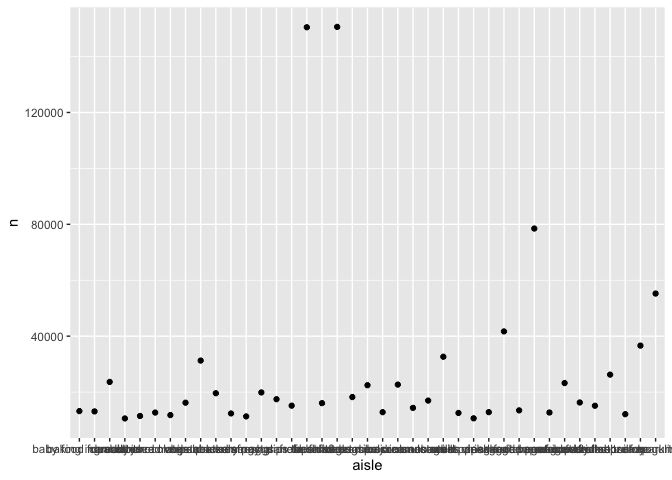
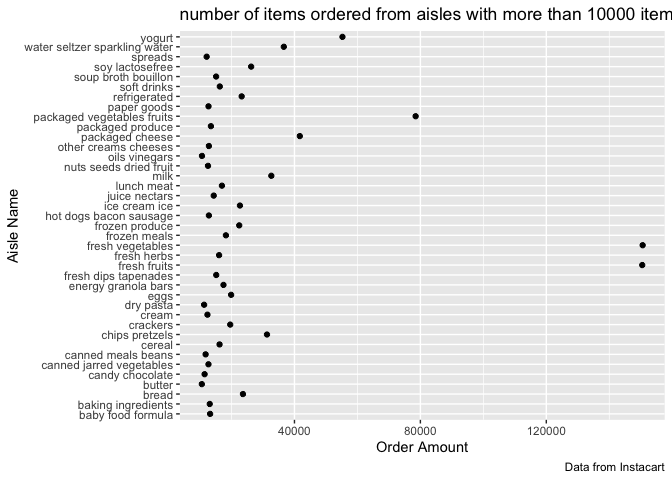
Commit by 10/14, last question left

diff --git a/p8105_hw3_as5685.md b/p8105_hw3_as5685.md
@@ -39,12 +39,12 @@ instacart %>%
   summarize(
     aisle_number = n()
   ) %>% 
-  filter(min_rank(desc(aisle_number)) < 2) %>% 
-  knitr::kable()
+  arrange(desc(aisle_number))
 ```
 
-The number of aisles are . Fresh vegatables is the aisle that most item
-ordered from.
+The number of aisles is 134.
+
+Fresh vegatables is the aisle that most item ordered from.
 
 ## Plot for number of items ordered
 
@@ -64,8 +64,10 @@ popularitem_plot =
         x = "Order Amount",
         caption = "Data from Instacart"
       )
+popularitem_plot
 ```
 
+![](p8105_hw3_as5685_files/figure-gfm/unnamed-chunk-3-1.png)<!-- -->
 Among the aisles with more than 10000 orders, fresh vegatables and fresh
 fruits are the most popular aisles.
 
@@ -84,21 +86,25 @@ popularitem_data =
   filter(min_rank(desc(product_order_amount)) < 4) %>% 
   arrange(desc(product_order_amount)) %>% 
   knitr::kable()
+
 popularitem_data 
 ```
 
-| aisle                        | product\_name                                     |                                                                                           product\_order\_amount |
-| :--------------------------- | :------------------------------------------------ | ---------------------------------------------------------------------------------------------------------------: |
-| packaged vegetables fruits   | Organic Baby Spinach                              |                                                                                                             9784 |
-| packaged vegetables fruits   | Organic Raspberries                               |                                                                                                             5546 |
-| packaged vegetables fruits   | Organic Blueberries                               |                                                                                                             4966 |
-| baking ingredients           | Light Brown Sugar                                 |                                                                                                              499 |
-| baking ingredients           | Pure Baking Soda                                  |                                                                                                              387 |
-| baking ingredients           | Cane Sugar                                        |                                                                                                              336 |
-| dog food care                | Snack Sticks Chicken & Rice Recipe Dog Treats     |                                                                                                               30 |
-| dog food care                | Organix Chicken & Brown Rice Recipe               |                                                                                                               28 |
-| dog food care                | Small Dog Biscuits                                |                                                                                                               26 |
-| The most populat three items | in `packaged vegetabels fruits` are \`organic bab | y spinach`with 9784 ordered,`organic raspberreis`with 5546 ordered, and`organic blueberries\` with 4966 ordered. |
+| aisle                      | product\_name                                 | product\_order\_amount |
+| :------------------------- | :-------------------------------------------- | ---------------------: |
+| packaged vegetables fruits | Organic Baby Spinach                          |                   9784 |
+| packaged vegetables fruits | Organic Raspberries                           |                   5546 |
+| packaged vegetables fruits | Organic Blueberries                           |                   4966 |
+| baking ingredients         | Light Brown Sugar                             |                    499 |
+| baking ingredients         | Pure Baking Soda                              |                    387 |
+| baking ingredients         | Cane Sugar                                    |                    336 |
+| dog food care              | Snack Sticks Chicken & Rice Recipe Dog Treats |                     30 |
+| dog food care              | Organix Chicken & Brown Rice Recipe           |                     28 |
+| dog food care              | Small Dog Biscuits                            |                     26 |
+
+The most populat three items in `packaged vegetabels fruits` are
+`organic baby spinach` with 9784 ordered, `organic raspberreis` with
+5546 ordered, and `organic blueberries` with 4966 ordered.
 
 The most popular three items in `baking ingredients` are `Cane Sugar`
 with 336 ordered, `Light Brown Sugar` with 499 ordered and `Pure Baking
@@ -125,24 +131,26 @@ knitr::kable(digits = 1)
 meanhours_data
 ```
 
-| product\_name       |       0 |        1 |      2 |        3 |       4 |      5 |                                   6 |
-| :------------------ | ------: | -------: | -----: | -------: | ------: | -----: | ----------------------------------: |
-| Coffee Ice Cream    |    13.8 |     14.3 |   15.4 |     15.3 |    15.2 |   12.3 |                                13.8 |
-| Pink Lady Apples    |    13.4 |     11.4 |   11.7 |     14.2 |    11.6 |   12.8 |                                11.9 |
-| For coffee Ice Crea | m, on o | rder\_do | w0 and | order\_d | ow6 has | the lo | west mean of order hour of the day. |
+| product\_name    |    0 |    1 |    2 |    3 |    4 |    5 |    6 |
+| :--------------- | ---: | ---: | ---: | ---: | ---: | ---: | ---: |
+| Coffee Ice Cream | 13.8 | 14.3 | 15.4 | 15.3 | 15.2 | 12.3 | 13.8 |
+| Pink Lady Apples | 13.4 | 11.4 | 11.7 | 14.2 | 11.6 | 12.8 | 11.9 |
+
+For coffee Ice Cream, on order\_dow0 and order\_dow6 has the lowest mean
+of order hour of the day.
 
 For Pink Lady Apples, the lowest mean of order hour of the day is
 order\_dow1. Details have been shown in above table.
 
 ## Problem 2
 
-## Load and read in data “BRFSS”
+### Load and read in data “BRFSS”
 
 ``` r
 data("brfss_smart2010")
 ```
 
-## data cleaning
+### Data cleaning
 
 ``` r
 brfss_dataclean = 
@@ -155,7 +163,7 @@ brfss_dataclean =
     ) 
 ```
 
-## states obseved at 7 or more.
+### States obseved at 7 or more.
 
 ``` r
 location_count_2002 = 
@@ -176,7 +184,7 @@ locations.
 In 2010, “CA”,“FL”,“CO”,“MA”,“MD”,“NC”,“NE”,“NJ”,“NY”,“OH”,“PA”,
 “SC”,“TX”,“WA” are the states observed at 7 or more locations.
 
-## spaghetti plot
+### spaghetti plot
 
 ``` r
 excellent_datasets = 
@@ -190,40 +198,53 @@ excellent_datasets =
   distinct()
 
 spaghetti_plot = 
-  ggplot(data = excellent_datasets, aes(x = year, y = datavalue_mean, color = locationabbr)) +
+  ggplot(data = excellent_datasets, aes(x = year, y = datavalue_mean, color = locationabbr, alpha = 0.5)) +
   geom_line() +
   labs(
     title = "Mean of data value for Excellent across locations within a state",
     y = "Mean of data value",
     caption = "data from BRFSS"
   )
+spaghetti_plot
 ```
+
+![](p8105_hw3_as5685_files/figure-gfm/unnamed-chunk-9-1.png)<!-- -->
 
 Based on the dataset and plot, it can be found that the trends of mean
 of data values for excellence across the year are different for each
 states. Most them have lower mean in 2010 than 2002.
 
-## Two-panel plots for 2006 and 2010(poor to excellent)
+### Two-panel plots for 2006 and 2010(poor to excellent)
 
 ``` r
 plot = 
   brfss_dataclean %>% 
   filter(year %in% c("2006","2010"), locationabbr == "NY") %>% 
   select(response,year,locationdesc,data_value) %>% 
-  ggplot(aes(x = data_value, fill = response)) + 
-    geom_density() +
+  ggplot(aes(x = data_value,y = response, fill = response, alpha = 0.5)) + 
+    geom_density_ridges() +
     facet_grid(.~year) +
-    viridis::scale_fill_viridis(discrete = TRUE)
+    viridis::scale_fill_viridis(discrete = TRUE) +
+  labs(
+    title = "Distribution of datavalues for each response in 2006 and 2010"
+  )
+plot 
 ```
 
-QUESTIONS: DO WE NEED TO INCLUDE LOCATIONS????
+    ## Picking joint bandwidth of 2.1
 
-\*\*\* adding labels\*\*\*\*\*\*\*\*\*\*\*\*\*\*\*\*
-\*\*\*\*\*\*\*\*\*\*\*\*\*\*\*\*\*\*\*\*\*\*\*\*\*\*\*\*\*\*\*\*\*\*\*\*\*\*\*\*\*\*\*\*\*\*\*\*\*\*REMEMBER\!\!\!\!\!\!\!\!\!
+    ## Picking joint bandwidth of 2.03
+
+![](p8105_hw3_as5685_files/figure-gfm/unnamed-chunk-10-1.png)<!-- -->
+
+The distribution of “poor” and “very good” are similar between 2006 and
+2010 in NY . The value range for fair in 2010 is larger than 2006. For
+“Very good” and “Excellent”, the mean value is larger in 2010 than
+2006.
 
 ## problem 3
 
-## load, tidy and wrangle the data
+### load, tidy and wrangle the data
 
 ``` r
 CHF_data = 
@@ -232,10 +253,9 @@ CHF_data =
   
   mutate(
     day = factor(day, levels = c("Monday","Tuesday","Wednesday","Thursday","Friday","Saturday", "Sunday")),
-    weekday = day %in% c("Monday","Tuesday","Wednesday","Thursday","Friday") 
-    ) %>% 
-    
-    select(week,day_id,day,weekday,everything()) %>% 
+    weekday_or_weekend = ifelse(day %in% c("Saturday", "Sunday"), "weekend", "weekday")
+  ) %>% 
+    select(week,day_id,day,weekday_or_weekend,everything()) %>% 
       
   pivot_longer(
     activity_1:activity_1440, 
@@ -252,10 +272,14 @@ CHF_data =
     ## See spec(...) for full column specifications.
 
 I used `pivot_longer` to organize the table. The variables are `week`,
-`day_id`, `day`, `weekday`, `activity number` and
-`count_for_minute`
+`day_id`, `day`, `weekday_or_weekend`, `activity number` and
+`count_for_minute`. I transfer variables of days into factor and relevel
+them. All orginially observed variables are kept.
 
-## aggregate accross minutes to create a total activity variable for each day, and create a table showing these totals.
+In the new dataset, the number of observation is 50400 and
+6.
+
+### aggregate accross minutes to create a total activity variable for each day, and create a table showing these totals.
 
 ``` r
 totalactivity_data = 
@@ -265,114 +289,63 @@ totalactivity_data =
    day_total_activity = sum(count_for_minute)
   ) %>% 
   select(day_id,day_total_activity) %>% 
-  distinct()
-  knitr::kable
+  distinct() %>% 
+  knitr::kable()
+totalactivity_data
 ```
 
-    ## function (x, format, digits = getOption("digits"), row.names = NA, 
-    ##     col.names = NA, align, caption = NULL, label = NULL, format.args = list(), 
-    ##     escape = TRUE, ...) 
-    ## {
-    ##     if (missing(format) || is.null(format)) 
-    ##         format = getOption("knitr.table.format")
-    ##     if (is.null(format)) 
-    ##         format = if (is.null(pandoc_to())) 
-    ##             switch(out_format() %n% "markdown", latex = "latex", 
-    ##                 listings = "latex", sweave = "latex", html = "html", 
-    ##                 markdown = "markdown", rst = "rst", stop("table format not implemented yet!"))
-    ##         else if (isTRUE(opts_knit$get("kable.force.latex")) && 
-    ##             is_latex_output()) {
-    ##             "latex"
-    ##         }
-    ##         else "pandoc"
-    ##     if (is.function(format)) 
-    ##         format = format()
-    ##     if (format != "latex" && !missing(align) && length(align) == 
-    ##         1L) 
-    ##         align = strsplit(align, "")[[1]]
-    ##     if (is.null(label)) 
-    ##         label = opts_current$get("label")
-    ##     if (!is.null(caption) && !is.na(caption)) 
-    ##         caption = paste0(create_label("tab:", label, latex = (format == 
-    ##             "latex")), caption)
-    ##     if (inherits(x, "list")) {
-    ##         if (format == "pandoc" && is_latex_output()) 
-    ##             format = "latex"
-    ##         res = lapply(x, kable, format = format, digits = digits, 
-    ##             row.names = row.names, col.names = col.names, align = align, 
-    ##             caption = NA, format.args = format.args, escape = escape, 
-    ##             ...)
-    ##         res = unlist(lapply(res, one_string))
-    ##         res = if (format == "latex") {
-    ##             kable_latex_caption(res, caption)
-    ##         }
-    ##         else if (format == "html" || (format == "pandoc" && is_html_output())) 
-    ##             kable_html(matrix(paste0("\n\n", res, "\n\n"), 1), 
-    ##                 caption = caption, escape = FALSE, table.attr = "class=\"kable_wrapper\"")
-    ##         else {
-    ##             res = paste(res, collapse = "\n\n")
-    ##             if (format == "pandoc") 
-    ##                 kable_pandoc_caption(res, caption)
-    ##             else res
-    ##         }
-    ##         return(structure(res, format = format, class = "knitr_kable"))
-    ##     }
-    ##     if (!is.matrix(x)) 
-    ##         x = as.data.frame(x)
-    ##     if (identical(col.names, NA)) 
-    ##         col.names = colnames(x)
-    ##     m = ncol(x)
-    ##     isn = if (is.matrix(x)) 
-    ##         rep(is.numeric(x), m)
-    ##     else sapply(x, is.numeric)
-    ##     if (missing(align) || (format == "latex" && is.null(align))) 
-    ##         align = ifelse(isn, "r", "l")
-    ##     digits = rep(digits, length.out = m)
-    ##     for (j in seq_len(m)) {
-    ##         if (is_numeric(x[, j])) 
-    ##             x[, j] = round(x[, j], digits[j])
-    ##     }
-    ##     if (any(isn)) {
-    ##         if (is.matrix(x)) {
-    ##             if (is.table(x) && length(dim(x)) == 2) 
-    ##                 class(x) = "matrix"
-    ##             x = format_matrix(x, format.args)
-    ##         }
-    ##         else x[, isn] = format_args(x[, isn], format.args)
-    ##     }
-    ##     if (is.na(row.names)) 
-    ##         row.names = has_rownames(x)
-    ##     if (!is.null(align)) 
-    ##         align = rep(align, length.out = m)
-    ##     if (row.names) {
-    ##         x = cbind(` ` = rownames(x), x)
-    ##         if (!is.null(col.names)) 
-    ##             col.names = c(" ", col.names)
-    ##         if (!is.null(align)) 
-    ##             align = c("l", align)
-    ##     }
-    ##     n = nrow(x)
-    ##     x = replace_na(to_character(as.matrix(x)), is.na(x))
-    ##     if (!is.matrix(x)) 
-    ##         x = matrix(x, nrow = n)
-    ##     x = trimws(x)
-    ##     colnames(x) = col.names
-    ##     if (format != "latex" && length(align) && !all(align %in% 
-    ##         c("l", "r", "c"))) 
-    ##         stop("'align' must be a character vector of possible values 'l', 'r', and 'c'")
-    ##     attr(x, "align") = align
-    ##     res = do.call(paste("kable", format, sep = "_"), list(x = x, 
-    ##         caption = caption, escape = escape, ...))
-    ##     structure(res, format = format, class = "knitr_kable")
-    ## }
-    ## <bytecode: 0x7fa76e7946f0>
-    ## <environment: namespace:knitr>
+| day\_id | day\_total\_activity |
+| ------: | -------------------: |
+|       1 |            480542.62 |
+|       2 |             78828.07 |
+|       3 |            376254.00 |
+|       4 |            631105.00 |
+|       5 |            355923.64 |
+|       6 |            307094.24 |
+|       7 |            340115.01 |
+|       8 |            568839.00 |
+|       9 |            295431.00 |
+|      10 |            607175.00 |
+|      11 |            422018.00 |
+|      12 |            474048.00 |
+|      13 |            423245.00 |
+|      14 |            440962.00 |
+|      15 |            467420.00 |
+|      16 |            685910.00 |
+|      17 |            382928.00 |
+|      18 |            467052.00 |
+|      19 |            371230.00 |
+|      20 |            381507.00 |
+|      21 |            468869.00 |
+|      22 |            154049.00 |
+|      23 |            409450.00 |
+|      24 |              1440.00 |
+|      25 |            260617.00 |
+|      26 |            340291.00 |
+|      27 |            319568.00 |
+|      28 |            434460.00 |
+|      29 |            620860.00 |
+|      30 |            389080.00 |
+|      31 |              1440.00 |
+|      32 |            138421.00 |
+|      33 |            549658.00 |
+|      34 |            367824.00 |
+|      35 |            445366.00 |
 
-## single-panel plot
+There is no apparent trend across the 35 days. Overall, the activity
+counts are similar for each weekend, and relatively lower at the
+mid-week.
+
+### single-panel plot
 
 ``` r
 activity_plot = 
   CHF_data %>% 
   ggplot(aes(x = week, y = count_for_minute, color = day)) +
-  geom_point() 
+  geom_point()
+activity_plot
 ```
+
+![](p8105_hw3_as5685_files/figure-gfm/unnamed-chunk-13-1.png)<!-- -->
+
+TOTAL ACTIVITY EACH DAY or ACITIVITY COUNT PER MINUTES.
